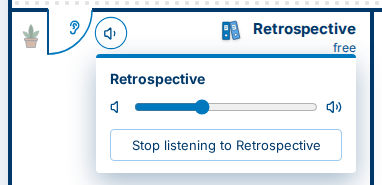
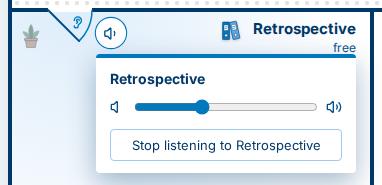
Listening in: doors ajar at 33°, 45° while listening, a glow from the door, the badge at the room sign round (#19)

Changed region(s): [[0.0288, 0.0541, 0.3743, 0.4865]]

diff --git a/web/src/lib/ui/listen/ListenDoor.svelte b/web/src/lib/ui/listen/ListenDoor.svelte
@@ -1,6 +1,6 @@
 <script lang="ts">
-  // The door of a room at the corridor wall (#19). Closed where Mumble does not let the user in, ajar (45°) where it
-  // does, wide open (90°) with an ear in the opening while the user listens in.
+  // The door of a room at the corridor wall (#19). Closed where Mumble does not let the user in, ajar (33°) where it
+  // does, a little further open (45°) with an ear in the opening while the user listens in.
   // Inside Ruumble Client, on the own floor, it is a button: a click opens it (listen in) or closes it again. Hovering
   // the room strengthens its swing line a little; hovering the door swings the leaf a bit further and shows a faint
   // ear. While open, a small tag beside it opens the volume. Elsewhere it is only the drawing it always was.
@@ -66,7 +66,7 @@
     <path d="M46 50A44 44 0 0 0 2 6" class="swing" />
     <!-- Lucide's ear, small in the opening: faint on hover, solid while listening -->
     <g class="ear">
-      <g transform="translate(21 25) scale(0.62)">
+      <g transform="translate(25 31) scale(0.55)">
         <path d="M6 8.5a6.5 6.5 0 1 1 13 0c0 6-6 6-6 10a3.5 3.5 0 1 1-7 0" />
         <path d="M15 8.5a2.5 2.5 0 0 0-5 0v1a2 2 0 1 1 0 4" />
       </g>
@@ -116,11 +116,11 @@
   /* the leaf turns about its hinge (2, 50); the swing shows the part of the quarter circle (length 69.12) it has opened */
   .door .leaf {
     stroke: var(--color-blue-700); stroke-width: 2; stroke-linecap: round;
-    transform-box: view-box; transform-origin: 2px 50px; transform: rotate(-45deg);
+    transform-box: view-box; transform-origin: 2px 50px; transform: rotate(-33deg);
     transition: transform 150ms var(--ease-out);
   }
   .door .swing {
-    stroke: var(--color-blue-300); stroke-width: 1.5; stroke-dasharray: 69.12; stroke-dashoffset: 34.56;
+    stroke: var(--color-blue-300); stroke-width: 1.5; stroke-dasharray: 69.12; stroke-dashoffset: 43.78;
     transition: stroke-dashoffset 150ms var(--ease-out), stroke var(--dur) var(--ease-out);
   }
   .door .ear { stroke: var(--color-blue-500); stroke-width: 2.4; stroke-linecap: round; stroke-linejoin: round; opacity: 0; transition: opacity 150ms var(--ease-out); }
@@ -128,19 +128,25 @@
   .door-spot.lower .ear { transform-box: fill-box; transform-origin: center; transform: scaleY(-1); }
   .door.closed .leaf { transform: none; stroke: var(--color-blue-500); stroke-width: 3; stroke-linecap: butt; }
   .door.closed .swing { stroke-dashoffset: 69.12; }
-  .door.open .leaf { transform: rotate(-90deg); }
-  .door.open .swing { stroke-dashoffset: 0; stroke: var(--color-blue-500); }
+  /* listening: 45°, the swing line stronger */
+  .door.open .leaf { transform: rotate(-45deg); }
+  .door.open .swing { stroke-dashoffset: 34.56; stroke: var(--color-blue-500); }
   .door.open .ear { opacity: 1; }
 
   /* hovering the room: the swing line of a door one can open gets a little stronger */
   :global(.wrap-room:hover) .door.hint.ajar .swing { stroke: var(--color-blue-500); }
   /* hovering the door: the leaf swings a bit further, a faint ear shows in the opening */
-  .door-button:hover .door.ajar .leaf, .door-button:focus-visible .door.ajar .leaf { transform: rotate(-65deg); }
-  .door-button:hover .door.ajar .swing, .door-button:focus-visible .door.ajar .swing { stroke-dashoffset: 19.2; }
+  /* hovering the door: it opens a little, to where it stands while listening, a faint ear shows in the opening */
+  .door-button:hover .door.ajar .leaf, .door-button:focus-visible .door.ajar .leaf { transform: rotate(-45deg); }
+  .door-button:hover .door.ajar .swing, .door-button:focus-visible .door.ajar .swing { stroke-dashoffset: 34.56; }
   .door-button:hover .door.ajar .ear, .door-button:focus-visible .door.ajar .ear { opacity: 0.45; }
   /* an open door swings back a little: a click closes it */
-  .door-button:hover .door.open .leaf { transform: rotate(-78deg); }
-  .door-button.pending .door.ajar .leaf { transform: rotate(-70deg); }
+  /* an open door swings back to ajar, the swing line with it: a click closes it */
+  .door-button:hover .door.open .leaf, .door-button:focus-visible .door.open .leaf { transform: rotate(-33deg); }
+  .door-button:hover .door.open .swing, .door-button:focus-visible .door.open .swing { stroke-dashoffset: 43.78; }
+  .door-button:hover .door.open .ear, .door-button:focus-visible .door.open .ear { opacity: 0.45; }
+  .door-button.pending .door.ajar .leaf { transform: rotate(-45deg); }
+  .door-button.pending .door.ajar .swing { stroke-dashoffset: 34.56; }
 
   @media (prefers-reduced-motion: reduce) {
     .door .leaf, .door .swing, .door .ear { transition: none; }

diff --git a/web/src/lib/ui/TopBar.svelte b/web/src/lib/ui/TopBar.svelte
@@ -656,12 +656,13 @@
   .room-menu .quick { grid-template-columns: none; grid-auto-flow: column; grid-auto-columns: 1fr; }
   .tile-icon { position: relative; display: inline-flex; height: 22px; align-items: center; }
   .room-sign :global(.back) { flex-shrink: 0; align-self: center; color: var(--color-link); }
-  /* listening in (#19): a small tab hanging at the right of the room sign, the list below it */
+  /* listening in (#19): a badge beside the room sign, the list below it */
   .listen-dropdown { flex: none; align-self: center; }
+  /* a round badge beside the room sign, in its colours */
   .listen-tab {
-    display: flex; align-items: center; gap: 3px; height: 36px; padding: 0 9px 0 7px; margin-left: -2px;
-    border: 2px solid var(--color-ink); border-left-width: 0; border-radius: 0 var(--radius-md) var(--radius-md) 0;
-    background: var(--color-blue-100); color: var(--color-link); font: inherit; font-size: 13px; font-weight: 700; cursor: pointer;
+    display: flex; align-items: center; gap: 4px; height: 34px; padding: 0 12px 0 10px; margin-left: 8px;
+    border: 2px solid var(--color-ink); border-radius: 999px;
+    background: var(--color-blue-100); color: var(--color-link); font: inherit; font-size: 14px; font-weight: 700; cursor: pointer;
     box-shadow: 0 2px 0 rgb(0 56 105 / 0.2); transition: transform var(--dur) var(--ease-out);
   }
   .listen-tab:hover { transform: translateY(-1px); }

diff --git a/web/src/lib/ui/SpaceButton.svelte b/web/src/lib/ui/SpaceButton.svelte
@@ -241,6 +241,7 @@
   class="room {variant}"
   class:raster={variant === "corridor"}
   class:mine={space.isSelf}
+  class:listened={!!listen?.open}
   class:locked={disabled && !readonly}
   class:readonly
   class:pending
@@ -365,6 +366,9 @@
   .room.readonly { cursor: default; }
   .room.locked:hover { background: var(--color-paper); }
   .room.pending { cursor: progress; }
+  /* a room the user listens to (#19): a soft glow spreading from its door (door centre 58 px from the left) */
+  .wrap-room > .room.listened { background-image: radial-gradient(circle 280px at 58px 100%, rgb(90 166 231 / 0.2), rgb(90 166 231 / 0) 100%); }
+  .wrap-room.lower > .room.listened { background-image: radial-gradient(circle 280px at 58px 0%, rgb(90 166 231 / 0.2), rgb(90 166 231 / 0) 100%); }
   /* a file dragged over a space with someone to send it to (tube mail) */
   .room.dropping { outline: 3px dashed var(--color-blue-500); outline-offset: -6px; background: var(--color-surface); }
   .room.pending.slow .count { color: var(--color-link); }

diff --git a/docs/user-guide.md b/docs/user-guide.md
@@ -42,7 +42,7 @@ Links from Mumble (welcome message, pairing link) open in your default browser. 
 - **Ruumble in a box** (the tray at the top right, or **T** for "talk"): one window for what is said. Inside Ruumble Client its first tab (only an icon) is your room: Mumble's log with the channel chat; search it, show only messages or only notices, and a "New" line marks where the unread messages start. After it comes one tab per person you have a quiet word with. The window keeps clear of your room and of the floating board. In Ruumble Client, Mumble's functions are at the bottom of the elevator: **City Map** (enter another building), configuration (Ctrl+,), room acoustics, all Mumble functions (F10) and **Leave**.
 - **Rooms and corridor:** double-clicking a room or the corridor moves you to that channel (with the keyboard: Tab to it, then Enter or Space). A single click does nothing, so a stray click never moves you. Your room is light blue, your avatar has a yellow ring.
 - **Icons on people:** a small plug means the person uses Mumble without Ruumble (no plugin connected); muted, deafened, "quiet" (has not talked for 15 minutes), "away" (deafened and quiet for 5 minutes). An ear on a room means someone is listening in.
-- **Listening in** (Ruumble Client): click the door of another room on your floor to listen without going in. The door opens wide and you hear the room quietly; click the small speaker beside it to change the volume, click the door again to stop. The ear tab at "You are here" lists every room you listen to. Changing the floor or entering the room ends it. Closed rooms cannot be listened to. "● Recording" means the room is being recorded.
+- **Listening in** (Ruumble Client): click the door of another room on your floor to listen without going in. The door opens a little further, the room gets a soft glow from the door and you hear it quietly; click the small speaker beside it to change the volume, click the door again to stop. The ear tab at "You are here" lists every room you listen to. Changing the floor or entering the room ends it. Closed rooms cannot be listened to. "● Recording" means the room is being recorded.
 - **Building overview:** click "N online" in the head of the elevator, or press **H**: the whole building as a cross-section, next to it the directory board with everyone, their room and status. Type a name and press Enter to go to that person; double-click a group of people or a person to move to their room.
 - **Status:** the small tag at the avatar of your name badge (top right), a click on your own avatar in the floor plan, "My status …" in the user menu or the key **S** sets a short status, such as "In a meeting until 2 pm". Everyone in Ruumble sees it as a small tag at your avatar; hover it to read the text. It expires after 2 hours unless you choose another time or "never", and you can clear it any time. The texts you used last are listed below for a quick choice.
 - **A quiet word:** private messages to someone else who uses Ruumble, wherever they are in the building. Hover a person and choose "Have a quiet word", or press **T** on a person in the directory board. The conversation opens as a tab in Ruumble in a box and shows where they are right now, with "Go there"; the door button invites them to your room ("Come over!"), and a message can get the board's quick reactions. Texts also appear in the other person's Mumble log. Your browser keeps a conversation for 24 hours after its last message; "Forget history" (eraser) removes it at once. **T** opens and closes the box, comma and full stop switch tabs, Escape closes it.

diff --git a/CHANGELOG.md b/CHANGELOG.md
@@ -12,7 +12,7 @@ All notable changes to Ruumble. The service and the web UI share one version; th
 
 ### Added
 
-- **Listening in (Ruumble Client):** a click on the door of another room on the own floor listens in without entering; the door opens wide with an ear in it, a second click closes it. A tag beside the open door sets the volume (start -15 dB, -30 to +12 dB); a tab at the room sign lists the rooms with their volume, "Quieter when someone talks in my room" (Mumble's listener attenuation, on by default) and "Stop all". Only rooms of the own floor, never the own room or a closed one; changing the floor or entering the room ends it, also for listening Mumble restored or started from its own menu. Hovering a room strengthens the door's swing line, hovering the door swings it a little further. The service reads Mumble's Listen permission and sends `canListen` in the snapshot. Needs the `desk` calls of the next Ruumble Client (`startListening` and friends); browsers and older clients show the state only (ADR-0027, #19)
+- **Listening in (Ruumble Client):** a click on the door of another room on the own floor listens in without entering; the door, now ajar at 33°, opens to 45° with an ear in it and the room gets a soft glow from the door; a second click closes it. A tag beside the open door sets the volume (start -15 dB, -30 to +12 dB); a tab at the room sign lists the rooms with their volume, "Quieter when someone talks in my room" (Mumble's listener attenuation, on by default) and "Stop all". Only rooms of the own floor, never the own room or a closed one; changing the floor or entering the room ends it, also for listening Mumble restored or started from its own menu. Hovering a room strengthens the door's swing line, hovering the door swings it a little further. The service reads Mumble's Listen permission and sends `canListen` in the snapshot. Needs the `desk` calls of the next Ruumble Client (`startListening` and friends); browsers and older clients show the state only (ADR-0027, #19)
 
 - **How you transmit (Ruumble Client):** a tab next to the microphone opens a menu with Mumble's transmit modes (voice activation, push to talk, always on), the talk key, mute, Mumble's double press and transmit sound, and the mic level; choosing push to talk unmutes. In push to talk the microphone is the talk button: hold to talk, double-click to keep it open; while transmitting it fills sky blue and the line under the top bar lights up. Choosing push to talk without a key opens "Set your talk key" (Right Ctrl suggested; captured through Mumble's shortcut engine, or by the page on Wayland). Where the key works only in the window (Wayland), the page listens for it itself. Uses the new `desk` calls of Ruumble Client (`transmitMode` and friends, ruumble-client#9); older clients keep the plain mute button (`web/src/lib/desk/transmit*.ts`, `web/src/lib/ui/desk/TransmitMenu.svelte`, `KeyDialog.svelte`)
 

diff --git a/docs/decisions/0027-listening-in.md b/docs/decisions/0027-listening-in.md
@@ -12,7 +12,7 @@ and restored on connect, kept when the user moves, and allowed by its own `Liste
 | Topic | Decision |
 |---|---|
 | **Where** | Only rooms on the floor the user is in. Not the corridor or an open floor, never the own room, never a closed room (no Enter permission, stricter than Mumble), never without Mumble's `Listen` permission. Other floors are out of sight; the metaphor and the display do not carry them. |
-| **Operation** | The room's door is a button inside Ruumble Client: a click opens it wide (listen in), a second click closes it. A double click on the room still enters it. Hover only: the room strengthens the door's swing line, the door swings a bit further and shows a faint ear. No permanent new symbol, no one-time hint. |
+| **Operation** | The room's door is a button inside Ruumble Client: a click opens it a little further (from 33° to 45°, listen in), a second click closes it again. The room then gets a soft glow spreading from the door. A double click on the room still enters it. Hover only: the room strengthens the door's swing line, the door swings to 45° and shows a faint ear; on an open door it swings back to 33°. No permanent new symbol, no one-time hint. |
 | **Ending** | Ruumble Client ends any listening that breaks the rules, wherever it came from: a floor change (also to the entrance), entering the room, a room becoming closed, and listening Mumble restored on connect or started from its own menu. Only looking at another floor through the elevator ends nothing. |
 | **Volume** | Per room, -30 to +12 dB, through a small tag beside the open door and in the list at the top bar. Start value -15 dB (audible, very discreet); Mumble keeps the value per room afterwards. |
 | **Attenuation** | Mumble's listener attenuation ("quieter when someone talks in my room") is switched on once by Ruumble Client with a strong factor (0.25), the first time a page listens in; the user can switch it off in the list. |

diff --git a/docs/internal/charter.md b/docs/internal/charter.md
@@ -61,7 +61,7 @@ Update 2026-10-02: a floor with **more than 8 rooms** is no longer locked ("Too 
 - **Temporary channels** on the second level are normal rooms (but have no board, see ADR-0011).
 - **Linked channels disappear completely**, including all their subchannels. Any channel with a non-empty `Channel.links` is not shown. Links in Mumble are always bidirectional, so both sides disappear. The remaining rooms share the space, and hidden rooms do not count towards the limit of 8. Edge cases: O2–O4.
 - **Listening:** If someone listens to a room (channel listener), an ear icon next to the room name shows it, with the tooltip "N people are listening", without names (E27).
-- **Listening in yourself** (update 2026-11-07, ADR-0027): inside Ruumble Client a click on a room's door listens in, only on rooms of the own floor, never the own room or a closed one. Changing the floor or entering the room ends it. The door stands wide open while listening; the volume is set per room.
+- **Listening in yourself** (update 2026-11-07, ADR-0027): inside Ruumble Client a click on a room's door listens in, only on rooms of the own floor, never the own room or a closed one. Changing the floor or entering the room ends it. Doors stand ajar at 33°; while listening at 45° with an ear in the opening, and the room gets a soft glow from the door. The volume is set per room.
 - **Badges** at the avatar (E28): server mute, server deaf and suppressed as a dark badge with microphone-off; self-mute light with microphone-off; self-deaf light with headphones-off. Each badge has a tooltip.
 - **Talking:** A pulsing ring around the avatar, mid-blue, not yellow. Only what the user's own client hears (E19).
 - **Presence** (E30): quiet after 15 minutes without talking; away when self-deafened and quiet for at least 5 minutes. Someone talking is always active. Recording shows a red dot at the avatar and a hint at the room.

diff --git a/docs/whats-new/next.md b/docs/whats-new/next.md
@@ -21,7 +21,7 @@ The first time you choose push to talk, Ruumble asks for a talk key and suggests
 
 ### Listen in on another room ![server update](https://img.shields.io/badge/-server%20update-e67e22)
 
-In Ruumble Client, click the door of another room on your floor to listen in without going in. The door opens wide and you hear the room, quietly at first. The small speaker next to the door sets the volume. Click the door again to stop.
+In Ruumble Client, click the door of another room on your floor to listen in without going in. The door opens a little further, the room lights up softly, and you hear it, quietly at first. The small speaker next to the door sets the volume. Click the door again to stop.
 
 ![The open door of a room you listen to, with its volume](images/next/listen-in.png)
 
